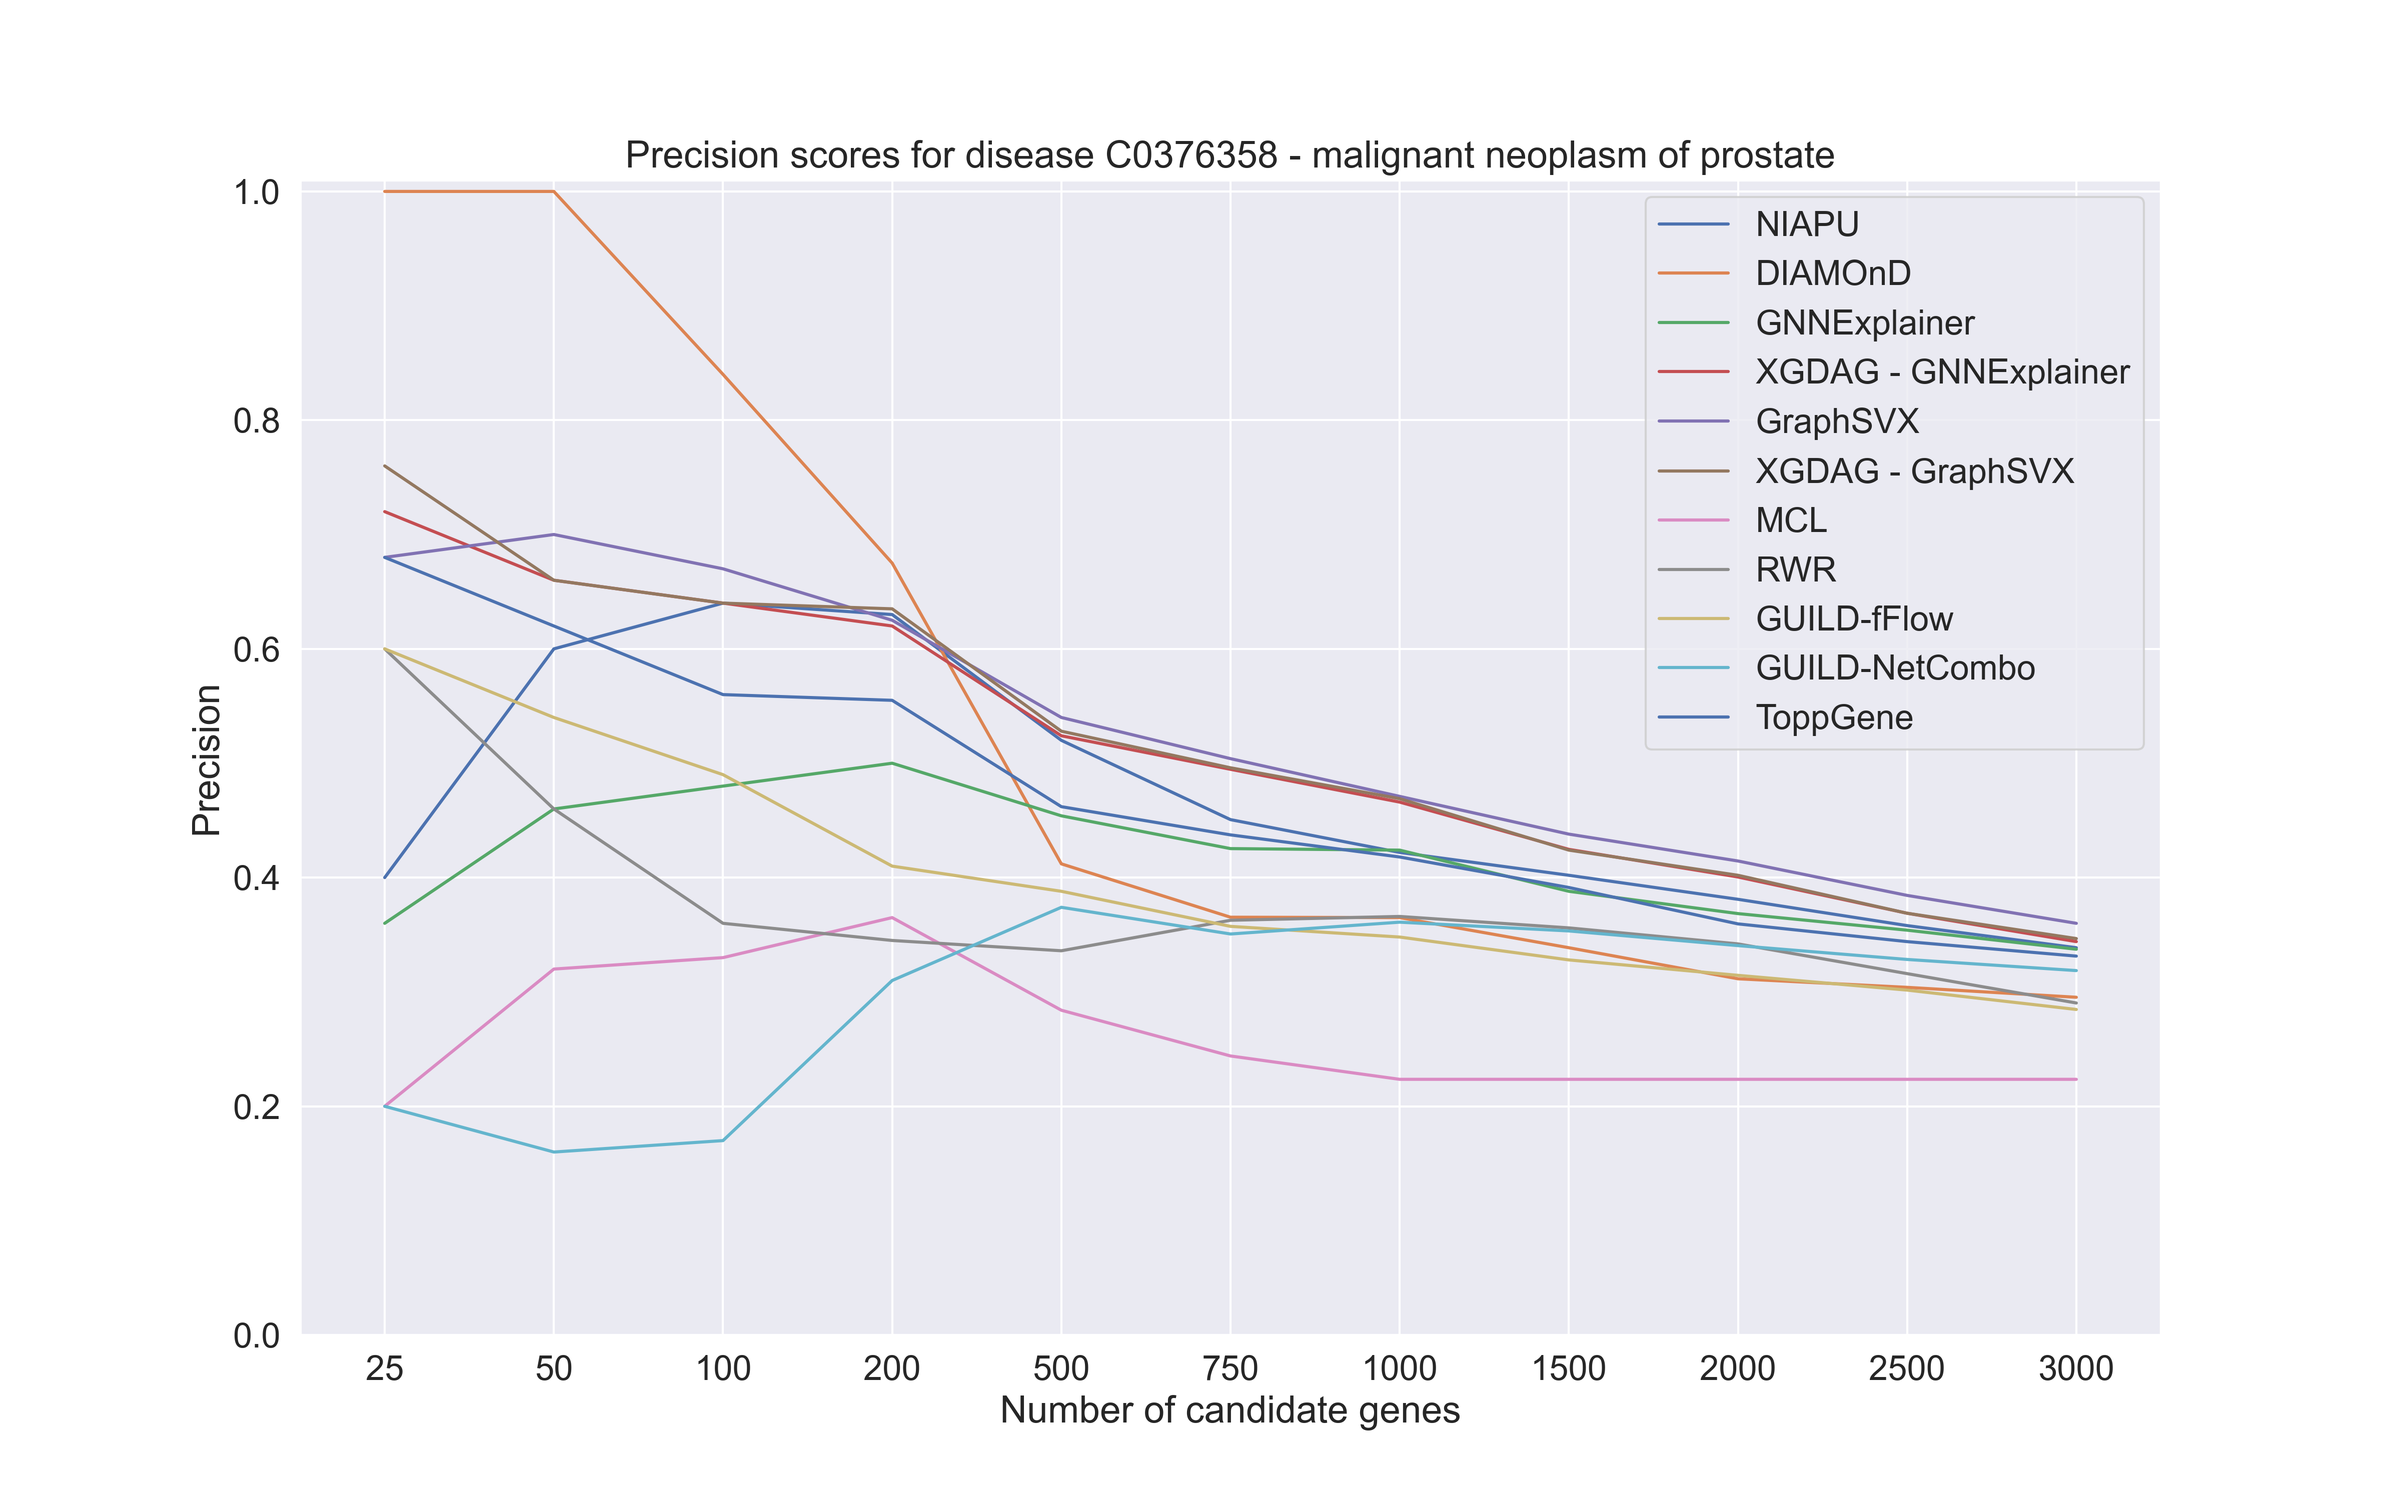
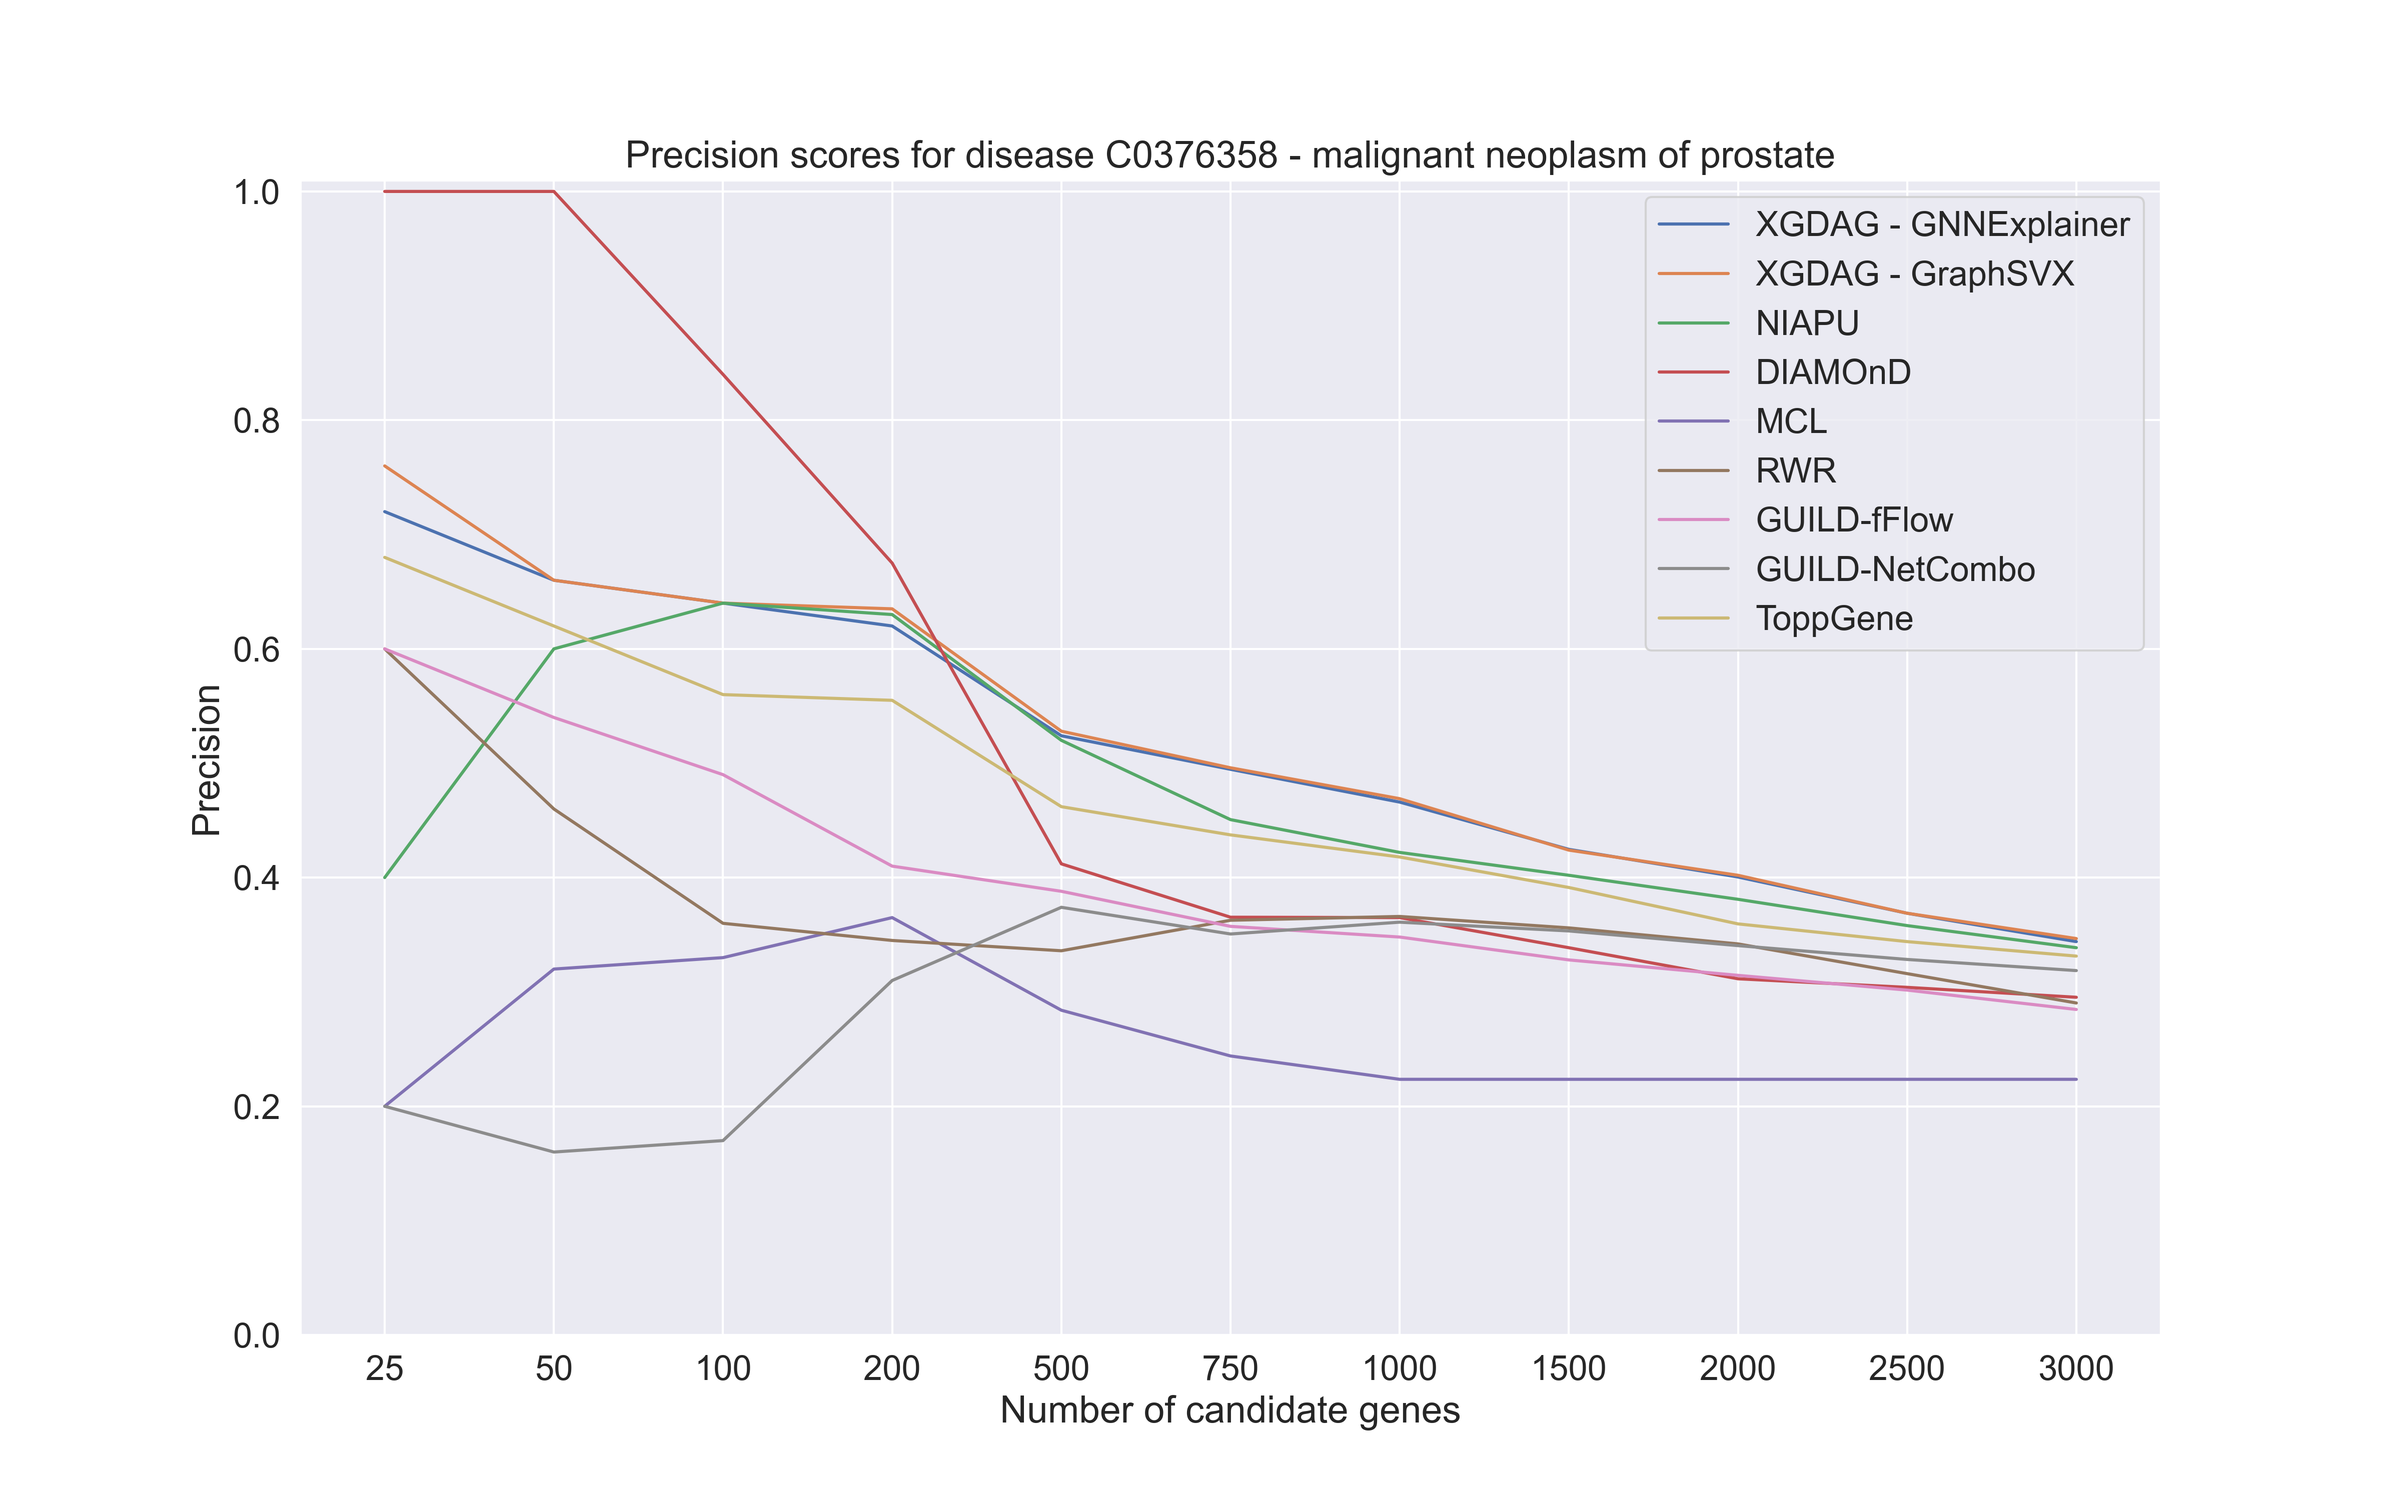
New plots

diff --git a/comparison_gene_discovery_plots.py b/comparison_gene_discovery_plots.py
@@ -21,9 +21,9 @@ DISEASE_CODES = {"C0006142_Malignant_neoplasm_of_breast": "C0006142", "C0009402_
 # COMPARE_METHODS = ["DIAMOnD", "XGDAG", "XGDAG + LP", "fFlow", "NetCombo", "NetRank"]
 GUILD_METHODS = ["fFlow", "NetScore", "NetZcore", "NetShort","NetCombo", "NetRank"]
 # COMPARE_METHODS = ["DIAMOnD", "GNNExplainer", "XGDAG"]
-COMPARE_METHODS = ["DIAMOnD", "GNNExplainer", "XGDAG - GNNExplainer", "GraphSVX", "XGDAG - GraphSVX", "MCL", "RWR", "fFlow", "NetCombo", "NetRank"]
-
-XAI_METHODS = ["GNNExplainer", "XGDAG - GNNExplainer", "GraphSVX", "XGDAG - GraphSVX", "SubraphX", "XGDAG - SubgraphX",
+# COMPARE_METHODS = ["DIAMOnD", "GNNExplainer", "XGDAG - GNNExplainer", "GraphSVX", "XGDAG - GraphSVX", "SubgraphX", "XGDAG - SubgraphX", "MCL", "RWR", "fFlow", "NetCombo", "NetRank"]
+COMPARE_METHODS = ["XGDAG - GNNExplainer",  "XGDAG - GraphSVX", "NIAPU", "DIAMOnD", "MCL", "RWR", "fFlow", "NetCombo", "NetRank"]
+XAI_METHODS = ["GNNExplainer", "XGDAG - GNNExplainer", "GraphSVX", "XGDAG - GraphSVX", "SubgraphX", "XGDAG - SubgraphX",
                 "EdgeSHAPer", "XGDAG - EdgeSHAPer"]
 
 PLOT = True
@@ -134,58 +134,64 @@ for DISEASE_NAME in tqdm(DISEASE_NAMES):
         precision_folds.append(precision)
         F1_folds.append(F1_score)
 
+        recall_folds_compare_methods["NIAPU"].append(recall)
+        precision_folds_compare_methods["NIAPU"].append(precision)
+        F1_folds_compare_methods["NIAPU"].append(F1_score)
+        
+
         for METHOD in COMPARE_METHODS:
-            ranking_method = []
+            if METHOD != "NIAPU":
+                ranking_method = []
 
-            if METHOD in XAI_METHODS:
-                with open("Rankings/" + DISEASE_CODES[DISEASE_NAME] + "_all_positives_new_ranking_" + METHOD.lower().replace("-", "_").replace(" ", "") + ".txt", "r", encoding="utf-8") as rankingFile:
-                    for line in rankingFile:
-                        ranking_method.append(line.strip("\n"))
-
-            elif METHOD in GUILD_METHODS:        
-                GUILD_METHOD_PATH = "Rankings/other_methods/GUILD/" + METHOD + "/" + DISEASE_NAME + "_" + METHOD + ".txt"
-
-                GUILD_scores_df = pd.read_csv(GUILD_METHOD_PATH, header = None, sep = "\t")
-                GUILD_scores_df.columns = ["name", "score"]
-                GUILD_scores_df = GUILD_scores_df.sort_values(by = "score", ascending= False)
-
-                ranking_method_df_not_seeds = GUILD_scores_df[~GUILD_scores_df['name'].isin(train_seeds_list)]
-                ranking_method = ranking_method_df_not_seeds["name"].values.tolist()
-               
-            else:
-                with open("Rankings/other_methods/" + METHOD + "/" + METHOD.lower() + "_output_" + DISEASE_NAME + ".txt", "r", encoding="utf-8") as rankingFile:
+                if METHOD in XAI_METHODS:
+                    with open("Rankings/" + DISEASE_CODES[DISEASE_NAME] + "_all_positives_new_ranking_" + METHOD.lower().replace("-", "_").replace(" ", "") + ".txt", "r", encoding="utf-8") as rankingFile:
                         for line in rankingFile:
                             ranking_method.append(line.strip("\n"))
-                
 
-            ranking_method = ranking_method[:round(ratio_to_validate)]
-            TP = 0
-            FP = 0
-            P = len(test_seeds) #TP+FP
-            #P = len(LP)
-            for gene in ranking_method:
+                elif METHOD in GUILD_METHODS:        
+                    GUILD_METHOD_PATH = "Rankings/other_methods/GUILD/" + METHOD + "/" + DISEASE_NAME + "_" + METHOD + ".txt"
+
+                    GUILD_scores_df = pd.read_csv(GUILD_METHOD_PATH, header = None, sep = "\t")
+                    GUILD_scores_df.columns = ["name", "score"]
+                    GUILD_scores_df = GUILD_scores_df.sort_values(by = "score", ascending= False)
+
+                    ranking_method_df_not_seeds = GUILD_scores_df[~GUILD_scores_df['name'].isin(train_seeds_list)]
+                    ranking_method = ranking_method_df_not_seeds["name"].values.tolist()
                 
-                if gene in test_seeds:
-                    TP += 1
-                    
                 else:
-                    FP += 1
+                    with open("Rankings/other_methods/" + METHOD + "/" + METHOD.lower() + "_output_" + DISEASE_NAME + ".txt", "r", encoding="utf-8") as rankingFile:
+                            for line in rankingFile:
+                                ranking_method.append(line.strip("\n"))
+                    
 
-            # P = TP+FP
-            # print(len(test_seeds))
-            # print(P)
-            # print("TP", TP)
-            # print("FP", FP)
-            recall = TP / P
-            precision = TP / (TP + FP)
-            
-            F1_score = 0
-            if (precision + recall) != 0:
-                F1_score = 2*(precision*recall)/(precision+recall)
+                ranking_method = ranking_method[:round(ratio_to_validate)]
+                TP = 0
+                FP = 0
+                P = len(test_seeds) #TP+FP
+                #P = len(LP)
+                for gene in ranking_method:
+                    
+                    if gene in test_seeds:
+                        TP += 1
+                        
+                    else:
+                        FP += 1
 
-            recall_folds_compare_methods[METHOD].append(recall)
-            precision_folds_compare_methods[METHOD].append(precision)
-            F1_folds_compare_methods[METHOD].append(F1_score)
+                # P = TP+FP
+                # print(len(test_seeds))
+                # print(P)
+                # print("TP", TP)
+                # print("FP", FP)
+                recall = TP / P
+                precision = TP / (TP + FP)
+                
+                F1_score = 0
+                if (precision + recall) != 0:
+                    F1_score = 2*(precision*recall)/(precision+recall)
+
+                recall_folds_compare_methods[METHOD].append(recall)
+                precision_folds_compare_methods[METHOD].append(precision)
+                F1_folds_compare_methods[METHOD].append(F1_score)
         
                     
 
@@ -222,7 +228,7 @@ for DISEASE_NAME in tqdm(DISEASE_NAMES):
         # sns.lineplot(x=ratios, y=recall_folds_compare_methods["XGDAG + LP"],label="XGDAG")
         # max_rec = max(recall_folds_compare_methods["XGDAG + LP"])
 
-        sns.lineplot(x=ratios, y=recall_folds,label="NIAPU")
+        # sns.lineplot(x=ratios, y=recall_folds,label="NIAPU")
         if max_rec < max(recall_folds):
             max_rec = max(recall_folds)
 
@@ -260,7 +266,7 @@ for DISEASE_NAME in tqdm(DISEASE_NAMES):
         #     sns.lineplot(x=ratios, y=precision_folds_compare_methods["XGDAG"],label="XGDAG")
         #     max_prec = max(precision_folds_compare_methods["XGDAG"])
 
-        sns.lineplot(x=ratios, y=precision_folds,label="NIAPU")
+        # sns.lineplot(x=ratios, y=precision_folds,label="NIAPU")
         
         if max_prec < max(precision_folds):
             max_prec = max(precision_folds)
@@ -300,7 +306,7 @@ for DISEASE_NAME in tqdm(DISEASE_NAMES):
         #     sns.lineplot(x=ratios, y=F1_folds_compare_methods["XGDAG"],label="XGDAG")
         #     max_F1 = max(F1_folds_compare_methods["XGDAG"])
 
-        sns.lineplot(x=ratios, y=F1_folds,label="NIAPU")
+        # sns.lineplot(x=ratios, y=F1_folds,label="NIAPU")
         
         if max_F1 < max(F1_folds):
             max_F1 = max(F1_folds)
